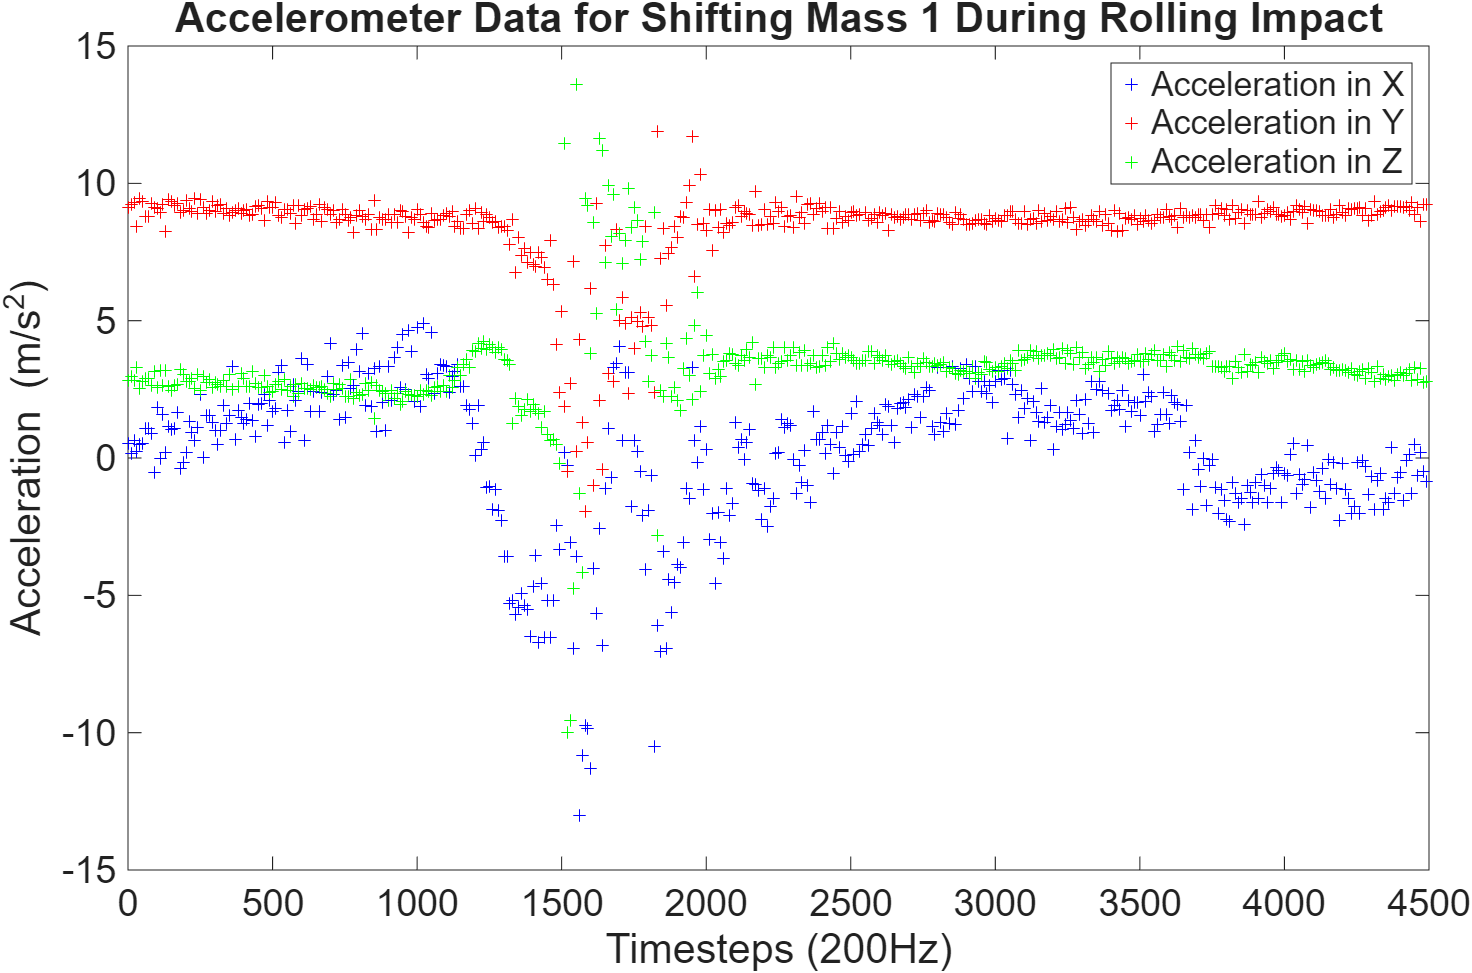
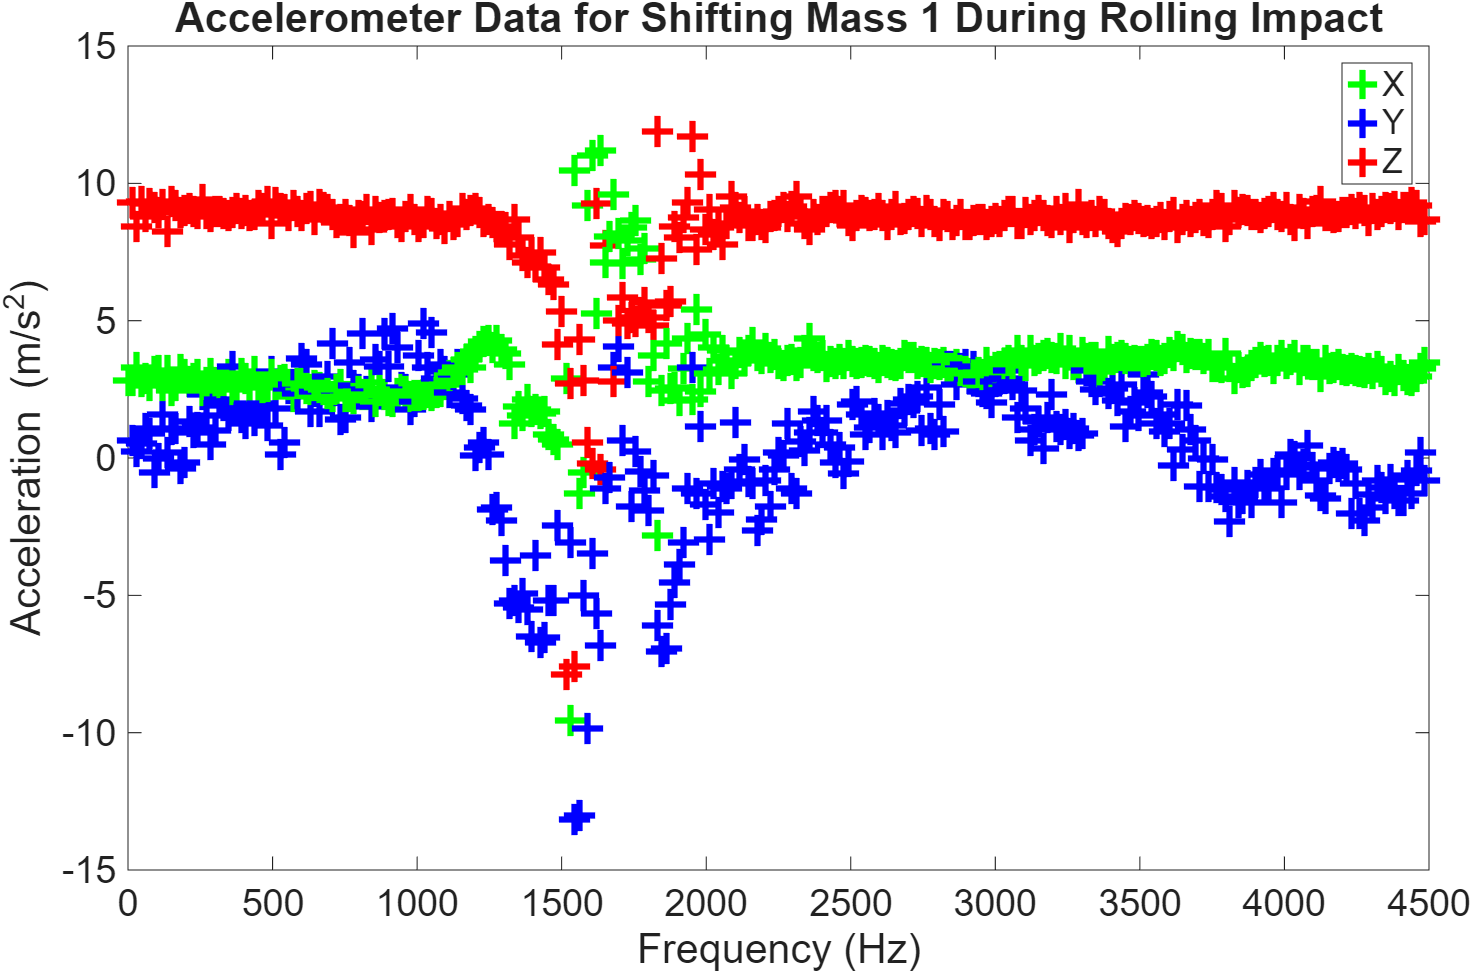
updated accelerometer graph

Changed region(s): [[0.0625, 0.0617, 1.0, 0.7708], [0.4062, 0.9558, 0.6562, 1.0], [0.375, 0.8325, 0.4062, 0.8633]]

diff --git a/experiments/TeXploRViconCurved.m b/experiments/TeXploRViconCurved.m
@@ -120,7 +120,6 @@ end
 
 
 %Plot the discrete points from arc 1
-figure(3)
 % plot3(arc1Left1(:,1),arc1Left1(:,2),arc1Left1(:,3))
 % hold on
 % plot3(arc1Left2(:,1),arc1Left2(:,2),arc1Left2(:,3))
@@ -128,6 +127,7 @@ figure(3)
 % plot3(arc1Left3(:,1),arc1Left3(:,2),arc1Left3(:,3))
 % hold on
 % plot3(arc1Left4(:,1),arc1Left4(:,2),arc1Left4(:,3))
+figure(3)
 j=0;
 
 % And then the realistic curved representation
@@ -183,14 +183,19 @@ j=0;
 
 % And then the realistic curved representation
 for i=1:10:840
-    [center1, radius1, xarc1, yarc1, zarc1] = triangle2semicircle(arc1p1(i,:), arc1p2(i,:), arc1p4(i,:), pi/2, 3*pi/2);
-    plot3(xarc1,yarc1,zarc1, 'Color', [0 j 1])
+    [center1, radius1, xarc1, yarc1, zarc1] = triangle2semicircleMod(arc1p1(i,:), arc1p2(i,:), arc1p4(i,:));
+    plot3(xarc1,yarc1,zarc1, 'Color', [0 j 1], 'LineWidth',3)
     hold on
-    [center2, radius2, xarc2, yarc2, zarc2] = triangle2semicircle(arc2p1(i,:), arc2p2(i,:), arc2p4(i,:), 3*pi/4, 7*pi/4);
-    plot3(xarc2,yarc2,zarc2, 'Color', [1 0 j])
+    [center2, radius2, xarc2, yarc2, zarc2] = triangle2semicircleMod(arc2p1(i,:), arc2p2(i,:), arc2p4(i,:));
+    plot3(xarc2,yarc2,zarc2, 'Color', [1 0 j], 'LineWidth',3)
     hold on
     j = j+0.012;
 end
+ax = gca;
+grid on
+ax.GridAlpha = 0.3;
+ax.GridLineWidth = 2;
+title('View')
 % 
 % % figure(2)
 % % 
@@ -290,4 +295,49 @@ function semicircle(P)
     scatter3(P(:,1), P(:,2), P(:,3), 'filled', 'b'); % Original points
     axis equal; grid on;
 
+end
+
+function [center, radius, x, y, z] = triangle2semicircleMod(P1, P2, P4)
+
+    % Vectors in the plane
+    u = P2 - P1;
+    v = P4 - P1;
+
+    % Plane normal
+    normal = cross(u,v);
+    normal = normal / norm(normal);
+
+    % Solve for circle center
+    A = [2*u; 2*v; normal];
+    b = [dot(P2,P2)-dot(P1,P1);
+         dot(P4,P4)-dot(P1,P1);
+         dot(normal,P1)];
+
+    center = (A\b)';
+    radius = norm(center - P1);
+
+    % --- Build orthonormal basis of circle plane ---
+    e1 = (P1 - center);
+    e1 = e1 / norm(e1);
+
+    e2 = cross(normal, e1);
+    e2 = e2 / norm(e2);
+
+    % --- Compute angles of start and end points ---
+    a1 = atan2(dot(P1-center,e2), dot(P1-center,e1));
+    a4 = atan2(dot(P4-center,e2), dot(P4-center,e1));
+
+    % Ensure correct arc direction
+    if a4 < a1
+        a4 = a4 + 2*pi;
+    end
+
+    t = linspace(a1,a4,100);
+
+    % Parametric arc
+    pts = center + radius*(cos(t')*e1 + sin(t')*e2);
+
+    x = pts(:,1);
+    y = pts(:,2);
+    z = pts(:,3);
 end

diff --git a/experiments/TeXploRAccelerometerCurved.m b/experiments/TeXploRAccelerometerCurved.m
@@ -17,12 +17,15 @@ end
 
 % Initial plotting
 figure
-for j = 1:10:4500
-    plot(x(j), accel_x(j), 'b+', x(j), accel_y(j), 'r+', x(j), accel_z(j), 'g+')
+for j = 1:15:4500
+    plot(x(j), accel_x(j), 'b+', 'MarkerSize', 15, 'LineWidth', 3)
+    plot(x(j), accel_y(j), 'r+', 'MarkerSize', 15, 'LineWidth', 3)
+    plot(x(j), accel_z(j), 'g+', 'MarkerSize', 15, 'LineWidth', 3)
     hold on
 end
+
 ylim([-15 15])
-legend('Acceleration in X', 'Acceleration in Y', 'Acceleration in Z')
+legend('X', 'Y', 'Z')
 title('Accelerometer Data for Shifting Mass 1 During Rolling Impact')
-xlabel('Timesteps (200Hz)')
+xlabel('Frequency (Hz)')
 ylabel('Acceleration (m/s^2)')
